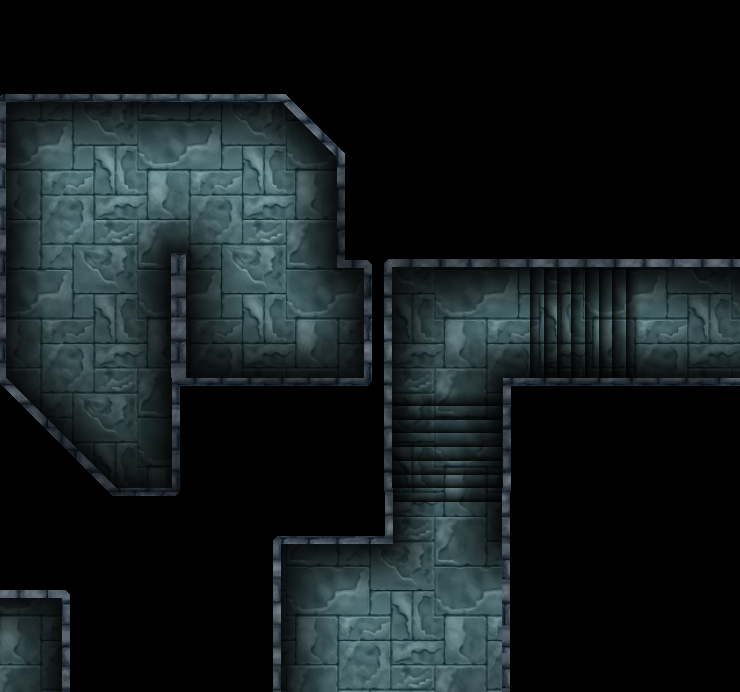
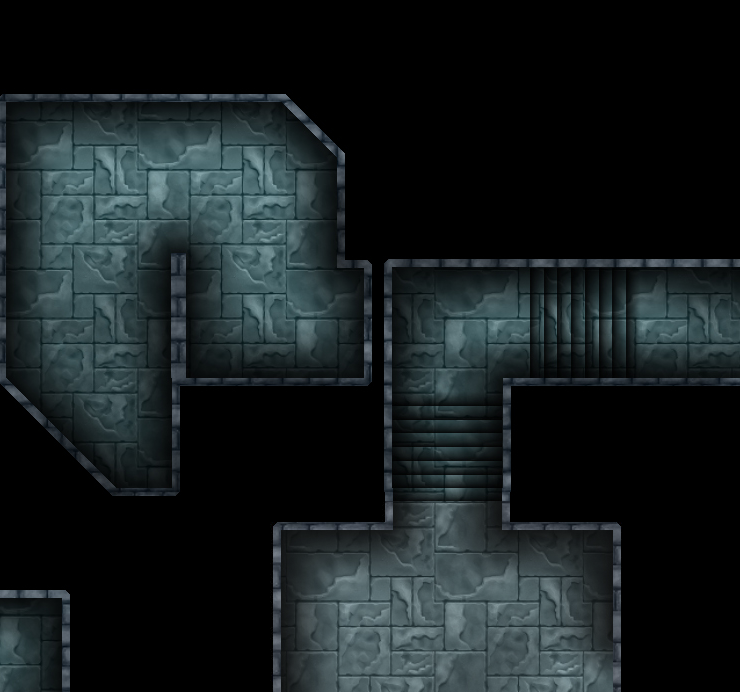
"agregadas las paredes verticales y correccion de mapa"

Changed region(s): [[0.3419, 0.698, 0.8392, 1.0]]

diff --git a/Cliente/js/juego.js b/Cliente/js/juego.js
@@ -28,7 +28,7 @@ var Juego = {
     new Pared(871,450,30,1,0),
       //mapa2
     new Pared(0,360,240,1,1),
-    new Pared(0,450,110,1,1),
+    new Pared(0,450,100,1,1),
       //mapa3
     new Pared(0,10,100,1,2),
     new Pared(0,100,240,1,2),
@@ -52,29 +52,52 @@ var Juego = {
     new Pared(615,130,130,1,5),
     new Pared(340,130,145,1,5),
       //mapa7
-    new Pared(335,400,140,1,6),
-    new Pared(475,190,425,1,6),
+    new Pared(335,370,140,1,6),
+    new Pared(495,190,425,1,6),
+    new Pared(605,380,140,1,6),
     new Pared(605,270,295,1,6),
       //mapa8
     new Pared(0,190,185,1,7),
     new Pared(0,270,185,1,7),
     new Pared(185,40,700,1,7),
-    new Pared(185,430,700,1,7)
-
-
-
-
-
-
-
-
-
-
-
-
+    new Pared(185,430,700,1,7),
 
     //verticales
-    // new Pared(200,490,100,250)
+      //mapa1
+    new Pared(1,170,1,60,0),
+    new Pared(199,250,1,240,0),
+    new Pared(199,90,1,70,0),
+    new Pared(871,450,1,40,0),
+    new Pared(871,90,1,280,0),
+      //mapa2
+    new Pared(250,370,1,130,1),
+    new Pared(100,450,1,50,1),
+      //mapa3
+    new Pared(250,0,1,100,2),
+      //mapa4
+    new Pared(201,0,3,380,3),
+    new Pared(301,120,1,140,3),
+    new Pared(471,120,1,140,3),
+    new Pared(531,170,1,120,3),
+    new Pared(531,370,1,120,3),
+     //mapa5 no posee paredes verticales
+     //mapa6
+    new Pared(350,170,1,120,5),
+    new Pared(350,370,1,120,5),
+    new Pared(615,130,1,240,5),
+    new Pared(480,130,1,160,5),
+    new Pared(335,0,1,130,5),
+    new Pared(750,0,1,130,5),
+      //mapa7
+    new Pared(335,390,1,110,6),
+    new Pared(745,380,1,120,6),
+    new Pared(465,200,1,170,6),
+    new Pared(605,280,1,100,6),
+
+      //mapa8
+    new Pared(175,50,1,140,7),
+    new Pared(175,280,1,140,7),
+    new Pared(890,50,1,450,7)
   ],
 
   mapas:[
